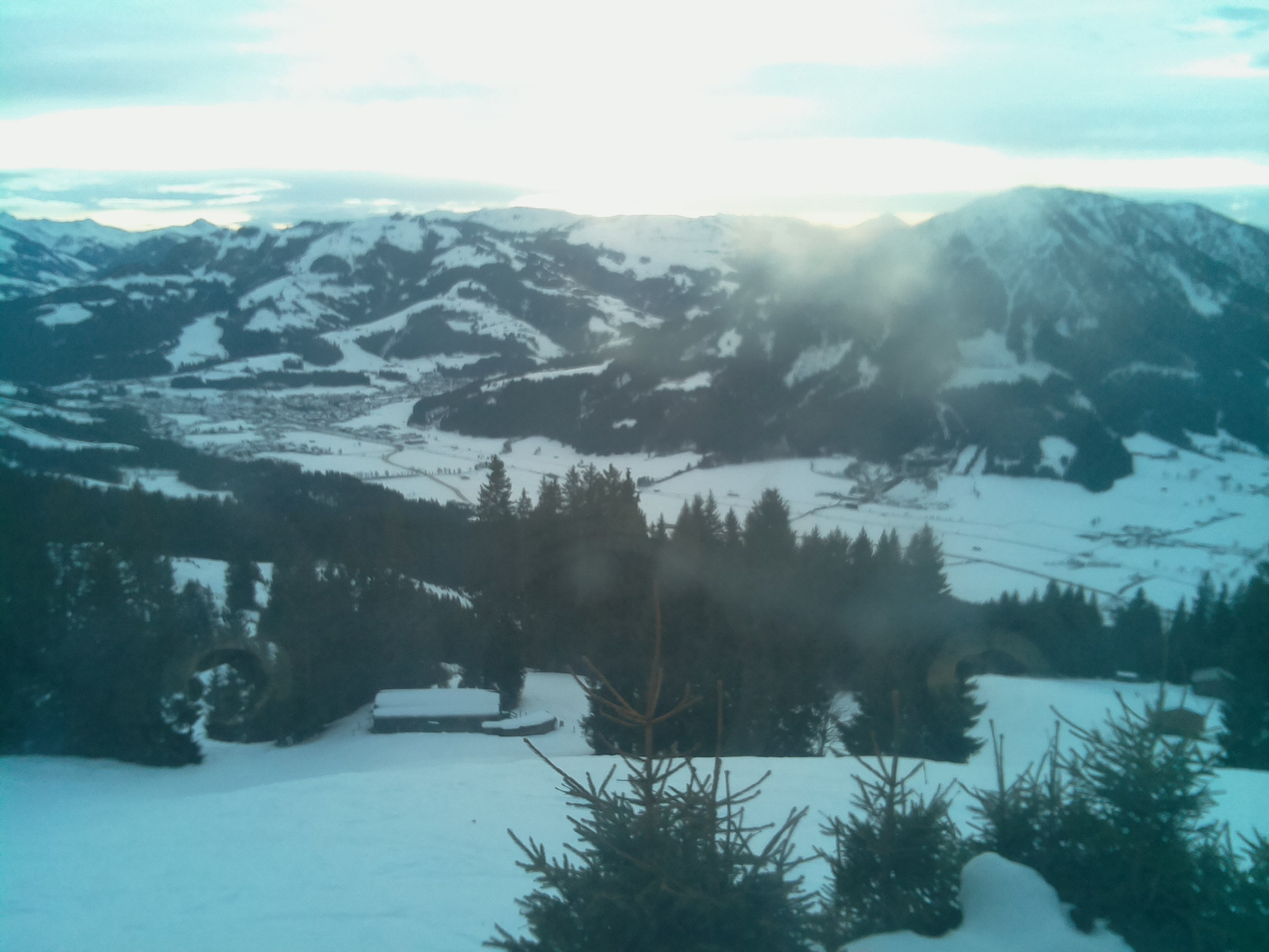
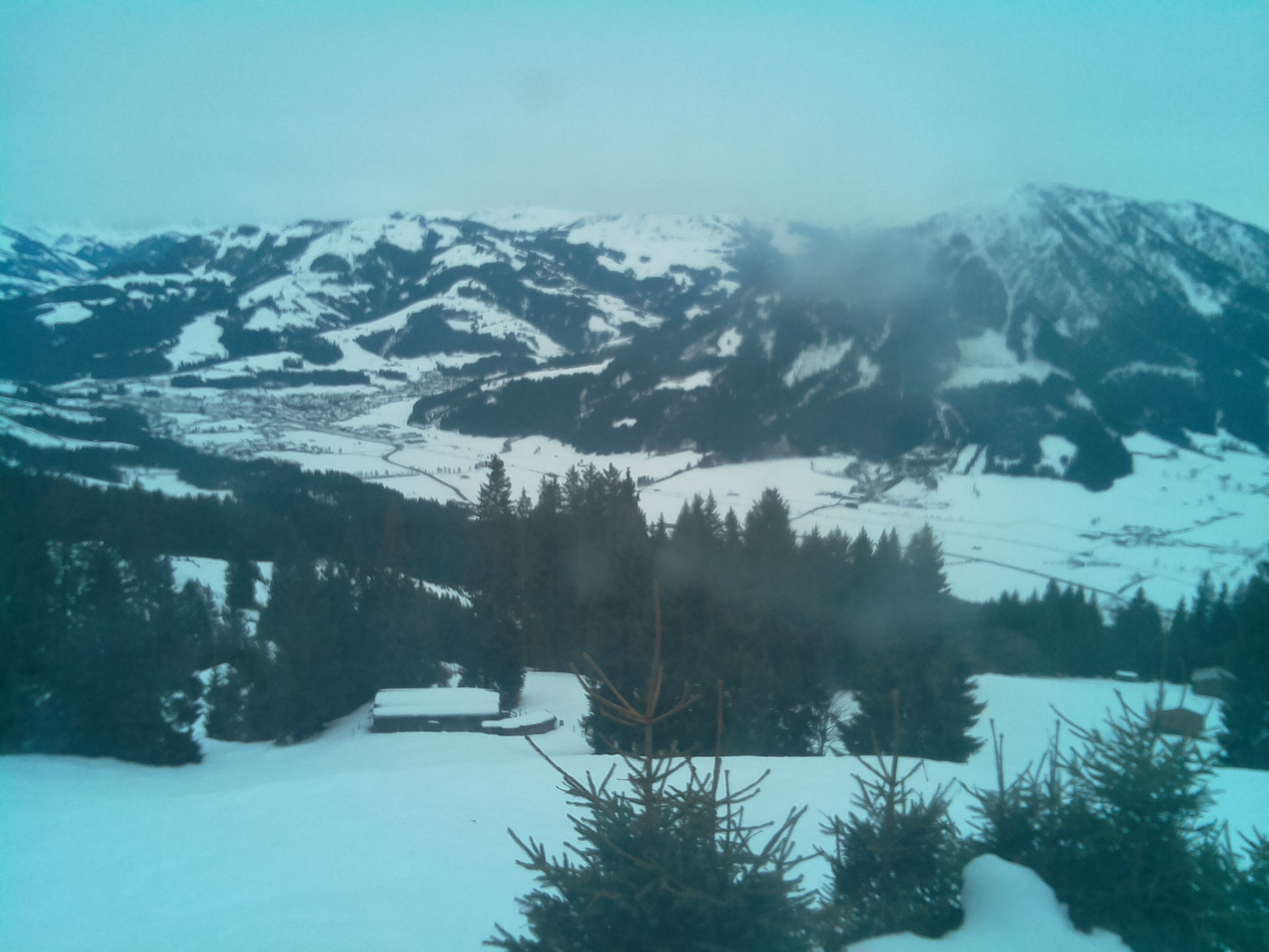
I'm a bot beep boop

diff --git a/resources/huette.md b/resources/huette.md
@@ -6,13 +6,13 @@ image: '/assets/img/'
 description: 'Live image from the Austrian alps'
 twitter_text: ' '
 ---
-## Latest image from 24 December 2021 at  9:10
+## Latest image from 24 December 2021 at 15:10
 <div class="huette">
   <div class="huette-image">
     <img src="{{ "/assets/img/huette.jpg" | prepend: site.baseurl }}">
   </div>
   <div class="huette-text">
-        <h2>Current Temperature: 3.625°C</h2>
+        <h2>Current Temperature: 3.875°C</h2>
         <p>A solar powered raspberry pi left alone in the wild is sending daily images and temperature data to this website. It should give you an impression about the current weather in the "Brixental".</p>
 
   </div>

diff --git a/rpi-script/huette.md b/rpi-script/huette.md
@@ -6,13 +6,13 @@ image: '/assets/img/'
 description: 'Live image from the Austrian alps'
 twitter_text: ' '
 ---
-## Latest image from 24 December 2021 at  9:10
+## Latest image from 24 December 2021 at 15:10
 <div class="huette">
   <div class="huette-image">
     <img src="{{ "/assets/img/huette.jpg" | prepend: site.baseurl }}">
   </div>
   <div class="huette-text">
-        <h2>Current Temperature: 3.625°C</h2>
+        <h2>Current Temperature: 3.875°C</h2>
         <p>A solar powered raspberry pi left alone in the wild is sending daily images and temperature data to this website. It should give you an impression about the current weather in the "Brixental".</p>
 
   </div>
